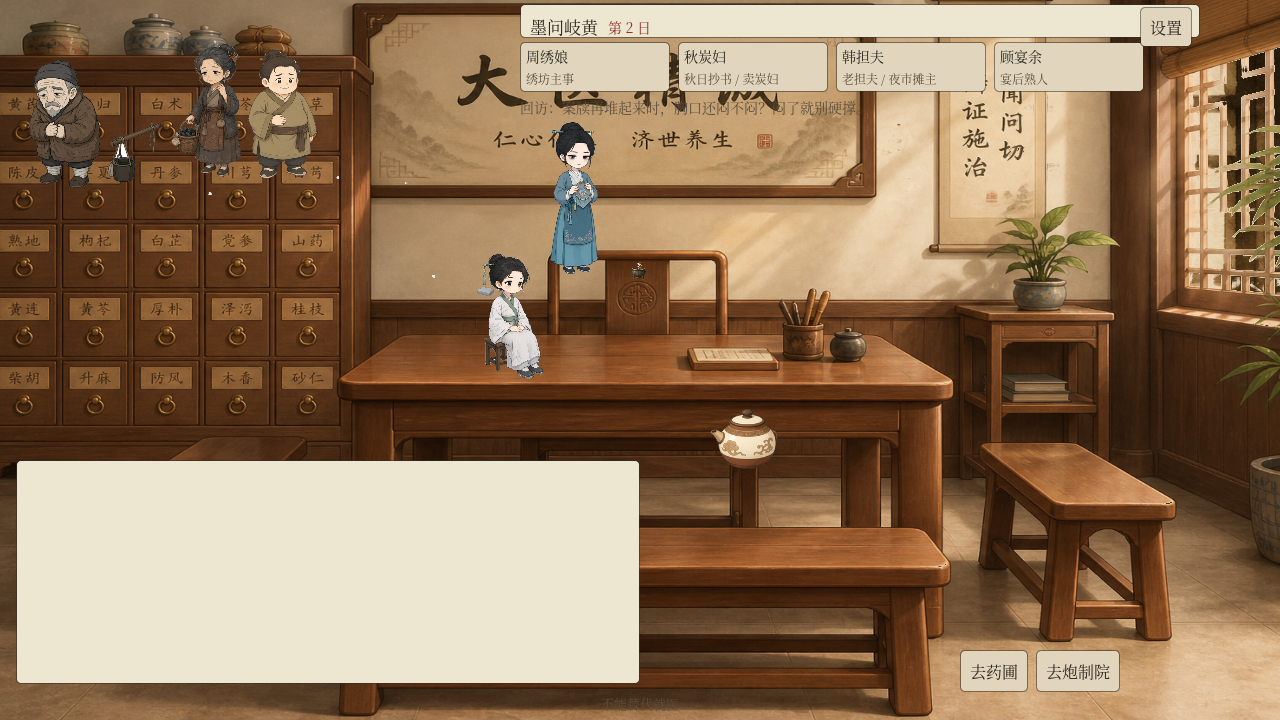
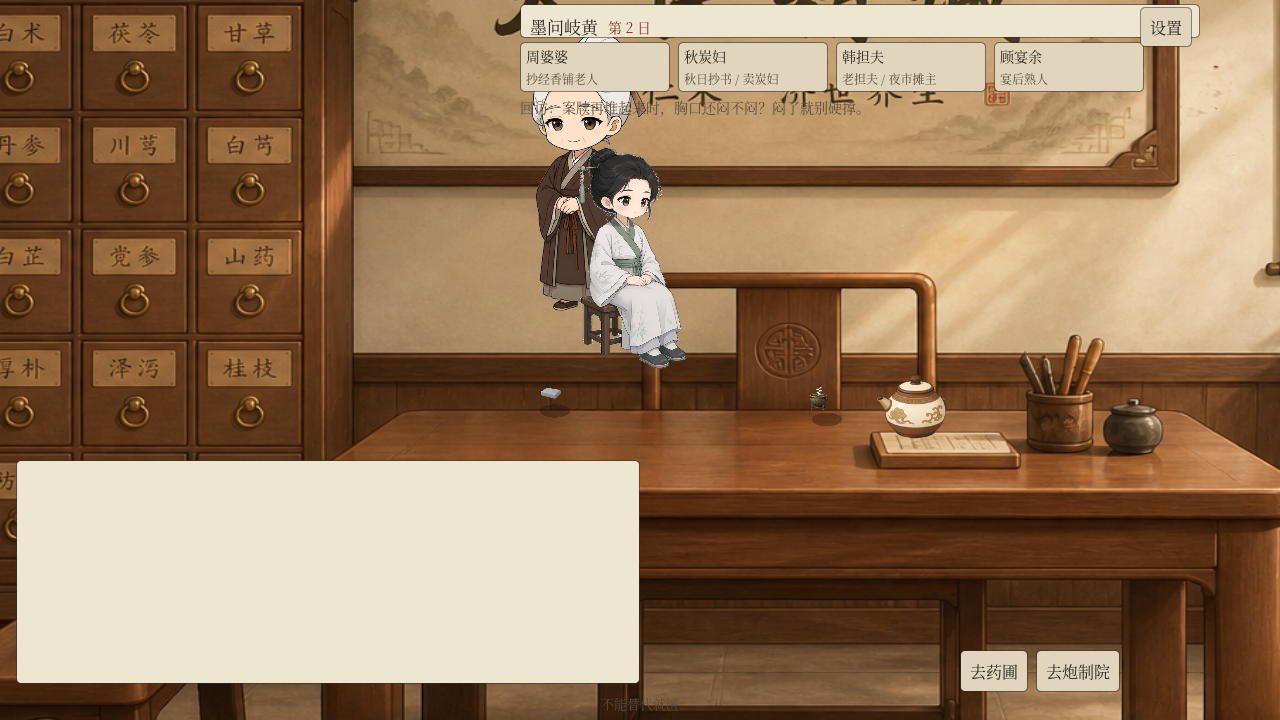
V139 visual fix：脚底离开柜面/桌面错读 + 药壶接地 + 开诊双人机位。
Look offsets vs CLINIC-CONSULT-V139：江晚 (1090,655) 画椅；候诊右走道；锁表 LOCK 常量保留。ui_consult_layout_ok 仍绿。

diff --git a/scene-slice/PORTRAIT-LAYOUT.md b/scene-slice/PORTRAIT-LAYOUT.md
@@ -163,4 +163,10 @@ Haopeng：主角**坐着问诊**，病患过来；禁柜顶站人、禁桌面漂
 - 道具尺度（场景建议）：药壶 ≤220×260；脉枕 ≤160×48；香炉高 ≤56。  
 - 立绘：优先复用；坐姿可补（美工）。
 
-- 角色运行时：江晚脚底可在椅锚上 **Y+≤20**（现 `APPRENTICE_HOME+(0,18)`）以免坐姿读成压桌沿；候诊 A–D 严格锁表。Idle 可用软变焦 ≈0.52 入画，机位中心仍 `(1280,780)`。
+- **Look 偏移（相对 CLINIC-CONSULT-V139；L3 透视/柜面错读，看图优先）**：
+  - 江晚 **(1090, 655)** — 落在画中椅背/桌后（锁节点 1035,770 会读成压桌面）；`APPRENTICE_HOME_LOCK` 仍保留锁值。
+  - 候诊 A–D 改到**右侧走道** ≈(1480,980)/(1600,975)/(1380,1000)/(1720,970)（锁左凳 Y≈400 贴左柜抽屉；现 x>1320 在作业区东侧外）。
+  - 坐诊病患仍 **(1040, 590)**。
+  - Idle zoom ≈0.55 @ HERO (1280,780)；开诊验收可用 CAM_ASK (1100,640) zoom≈0.85 拍双人。
+  - 药壶/脉枕/香炉：底对齐钉桌面，`FootShadow` 辅助接地；L4 全幅合图保持隐藏。
+
